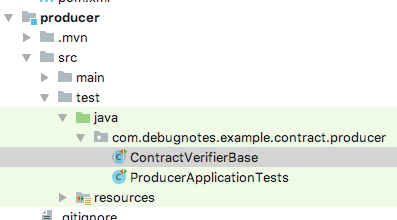
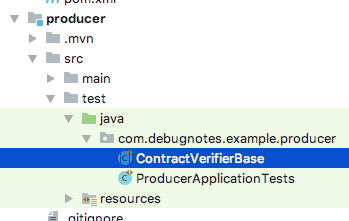
Develop (#15)
* Feature/docs (#7)

* Develop (#1)

* Develop init, added .gitignore

* Added initial project structure.

* Develop (#3)

* Added initial contracts. (#2)

* Fixed package details.

* Docs branch

* Added text and images.

* Feature/docs (#5)

* Docs branch

* Added text and images.

* Fixed header formatting.

* Fixed package names, refactored code to support. (#9)

* Bugfixes (#10)

* Fixed package names, refactored code to support.

* Additional doc updates.

* Bugfixes (#12)

* Additional doc updates.

* Bugfixes (#14)

* Package name bug fixes.

* README.md image updates

* README.md fixes.

diff --git a/consumer/src/test/java/com/debugnotes/example/consumer/controller/DefaultControllerTest.java b/consumer/src/test/java/com/debugnotes/example/consumer/controller/DefaultControllerTest.java
@@ -1,6 +1,6 @@
-package com.debugnotes.example.contract.consumer.controller;
+package com.debugnotes.example.consumer.controller;
 
-import com.debugnotes.example.contract.consumer.ConsumerApplication;
+import com.debugnotes.example.consumer.ConsumerApplication;
 import org.junit.Test;
 import org.junit.runner.RunWith;
 import org.springframework.beans.factory.annotation.Autowired;
@@ -12,19 +12,16 @@ import org.springframework.http.MediaType;
 import org.springframework.test.context.junit4.SpringRunner;
 import org.springframework.test.web.servlet.MockMvc;
 import org.springframework.test.web.servlet.MvcResult;
-import org.springframework.test.web.servlet.ResultActions;
 import org.springframework.test.web.servlet.request.MockMvcRequestBuilders;
-import org.springframework.web.context.WebApplicationContext;
 
 import static org.springframework.test.web.servlet.request.MockMvcRequestBuilders.get;
 import static org.springframework.test.web.servlet.result.MockMvcResultHandlers.print;
-import static org.springframework.test.web.servlet.result.MockMvcResultMatchers.content;
 import static org.springframework.test.web.servlet.result.MockMvcResultMatchers.status;
 
 @RunWith(SpringRunner.class)
 @SpringBootTest(classes = {ConsumerApplication.class})    // extended info may not be required
 @AutoConfigureMockMvc
-@AutoConfigureStubRunner(ids = {"com.debugnotes.example.contract:producer:+:stubs:8081"},
+@AutoConfigureStubRunner(ids = {"com.debugnotes.example:producer:+:stubs:8081"},
         stubsMode = StubRunnerProperties.StubsMode.LOCAL)
 //@DirtiesContext // use only if the application context needs to be reset after these tests
 public class DefaultControllerTest {

diff --git a/consumer/src/main/java/com/debugnotes/example/consumer/controller/DefaultController.java b/consumer/src/main/java/com/debugnotes/example/consumer/controller/DefaultController.java
@@ -1,4 +1,4 @@
-package com.debugnotes.example.contract.consumer.controller;
+package com.debugnotes.example.consumer.controller;
 
 import org.springframework.stereotype.Controller;
 import org.springframework.web.bind.annotation.RequestMapping;

diff --git a/consumer/src/main/java/com/debugnotes/example/consumer/ConsumerApplication.java b/consumer/src/main/java/com/debugnotes/example/consumer/ConsumerApplication.java
@@ -1,4 +1,4 @@
-package com.debugnotes.example.contract.consumer;
+package com.debugnotes.example.consumer;
 
 import org.springframework.boot.SpringApplication;
 import org.springframework.boot.autoconfigure.SpringBootApplication;

diff --git a/consumer/src/test/java/com/debugnotes/example/consumer/ConsumerApplicationTests.java b/consumer/src/test/java/com/debugnotes/example/consumer/ConsumerApplicationTests.java
@@ -1,4 +1,4 @@
-package com.debugnotes.example.contract.consumer;
+package com.debugnotes.example.consumer;
 
 import org.junit.Test;
 import org.junit.runner.RunWith;

diff --git a/README.md b/README.md
@@ -183,7 +183,7 @@ then:
 
 ```
 
-package com.debugnotes.example.contract.producer;
+package com.debugnotes.example.producer;
 
 
 import ContractVerifierBase;
